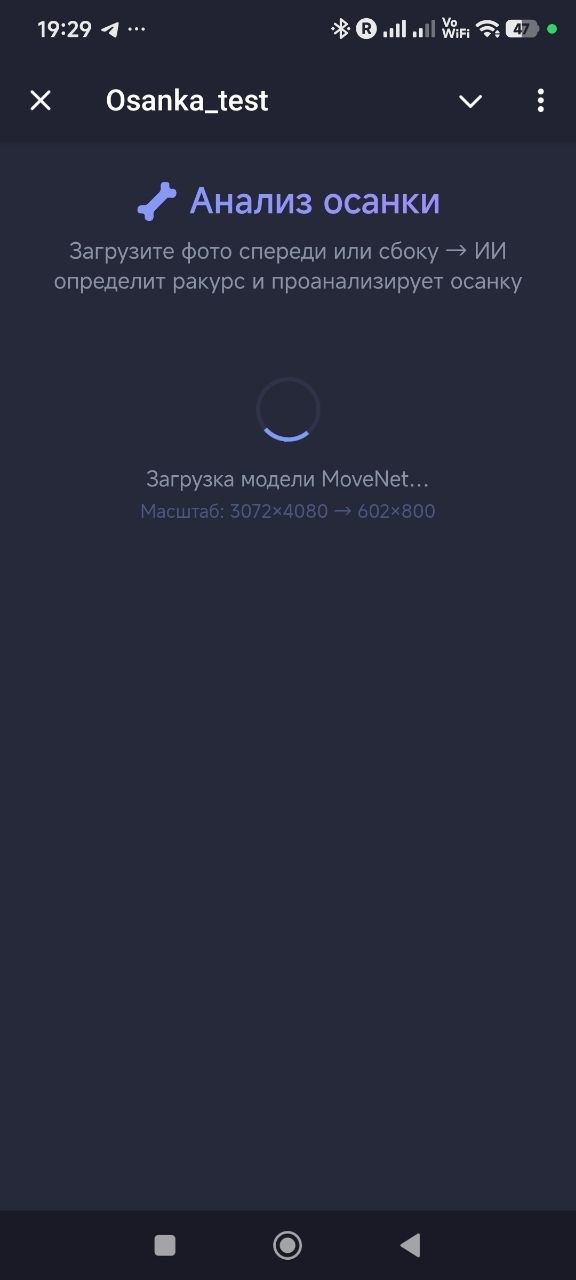
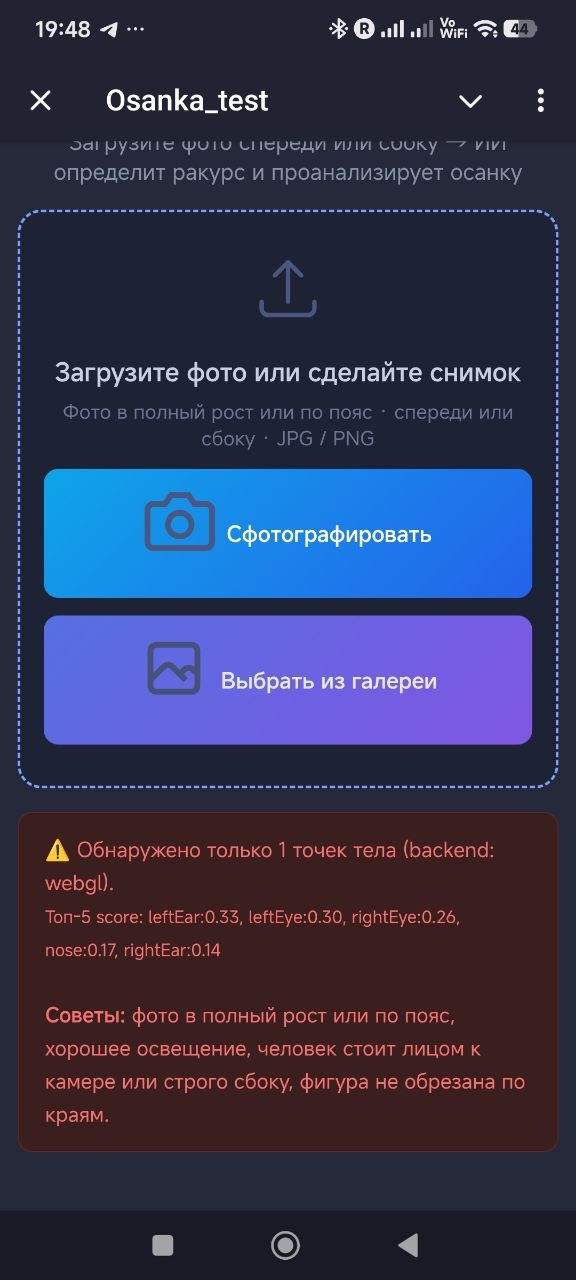
fix

diff --git a/index.html b/index.html
@@ -255,6 +255,55 @@ function moveNetToKps(keypoints) {
   });
 }
 
+// ── EXIF orientation reader (parses first 64KB of JPEG) ──────────────────────
+function readExifOrientation(file, cb) {
+  var fr = new FileReader();
+  fr.onload = function(e) {
+    try {
+      var v = new DataView(e.target.result);
+      if (v.getUint16(0, false) !== 0xFFD8) { cb(1); return; }
+      var len = v.byteLength, off = 2;
+      while (off < len) {
+        var marker = v.getUint16(off, false); off += 2;
+        if (marker === 0xFFE1) {
+          off += 2; // skip segment length
+          if (v.getUint32(off, false) !== 0x45786966) { cb(1); return; } // 'Exif'
+          var le = v.getUint16(off + 6, false) === 0x4949;
+          var ifd = off + 6 + v.getUint32(off + 10, le);
+          var entries = v.getUint16(ifd, le);
+          for (var i = 0; i < entries; i++) {
+            if (v.getUint16(ifd + 2 + i * 12, le) === 0x0112) {
+              cb(v.getUint16(ifd + 2 + i * 12 + 8, le)); return;
+            }
+          }
+          cb(1); return;
+        } else if ((marker & 0xFF00) !== 0xFF00) break;
+        else off += v.getUint16(off, false);
+      }
+    } catch(e) {}
+    cb(1);
+  };
+  fr.onerror = function() { cb(1); };
+  fr.readAsArrayBuffer(file.slice(0, 65536));
+}
+
+// Draw image onto canvas with correct EXIF orientation applied manually
+function drawWithExif(ctx, img, orientation, cw, ch) {
+  ctx.save();
+  switch (orientation) {
+    case 2: ctx.transform(-1,0,0,1,cw,0); break;
+    case 3: ctx.transform(-1,0,0,-1,cw,ch); break;
+    case 4: ctx.transform(1,0,0,-1,0,ch); break;
+    case 5: ctx.transform(0,1,1,0,0,0); break;
+    case 6: ctx.transform(0,1,-1,0,ch,0); break;  // 90° CW — most common phone portrait
+    case 7: ctx.transform(0,-1,-1,0,ch,cw); break;
+    case 8: ctx.transform(0,-1,1,0,0,cw); break;
+  }
+  var swapped = (orientation >= 5 && orientation <= 8);
+  ctx.drawImage(img, 0, 0, swapped ? ch : cw, swapped ? cw : ch);
+  ctx.restore();
+}
+
 function processFile(file) {
   if (!file.type.startsWith('image/')) { showError('Выберите файл изображения (JPG, PNG, WebP…)'); return; }
   errorEl.style.display       = 'none';
@@ -264,17 +313,38 @@ function processFile(file) {
   loadingText.textContent     = 'Загрузка модели MoveNet…';
   loadingSub.textContent      = 'Первый запуск загружает ~6 МБ';
 
-  var reader = new FileReader();
-  reader.onerror = function(){ showError('Не удалось прочитать файл изображения.'); };
-  reader.onload = function(e) {
-    sourceImg.onerror = function(){ showError('Не удалось загрузить изображение. Попробуйте JPG или PNG.'); };
-    sourceImg.onload  = startAnalysis;
-    sourceImg.src     = e.target.result;
-  };
-  reader.readAsDataURL(file);
+  readExifOrientation(file, function(orientation) {
+    var reader = new FileReader();
+    reader.onerror = function(){ showError('Не удалось прочитать файл изображения.'); };
+    reader.onload = function(e) {
+      var tmp = new Image();
+      tmp.onerror = function(){ showError('Не удалось загрузить изображение.'); };
+      tmp.onload = function() {
+        var rawW = tmp.naturalWidth  || tmp.width  || 640;
+        var rawH = tmp.naturalHeight || tmp.height || 640;
+        var swapped = (orientation >= 5 && orientation <= 8);
+        var finalW = swapped ? rawH : rawW;
+        var finalH = swapped ? rawW : rawH;
+        var MAX = 800;
+        var scale = Math.min(1, MAX / Math.max(finalW, finalH));
+        var cw = Math.round(finalW * scale);
+        var ch = Math.round(finalH * scale);
+        _poseCanvas = document.createElement('canvas');
+        _poseCanvas.width  = cw;
+        _poseCanvas.height = ch;
+        drawWithExif(_poseCanvas.getContext('2d'), tmp, orientation, cw, ch);
+        // Also update sourceImg for skeleton overlay
+        sourceImg._procW = cw; sourceImg._procH = ch;
+        sourceImg.onload = startAnalysis;
+        sourceImg.src = _poseCanvas.toDataURL('image/jpeg', 0.85);
+      };
+      tmp.src = e.target.result;
+    };
+    reader.readAsDataURL(file);
+  });
 }
 
-var _poseCanvas = null; // resized canvas passed to TF.js
+var _poseCanvas = null;
 
 function startAnalysis() {
   loadTimeout = setTimeout(function(){
@@ -282,25 +352,13 @@ function startAnalysis() {
     uploadSection.style.display = 'block';
   }, 90000);
 
-  var origW = sourceImg.naturalWidth  || sourceImg.width  || 640;
-  var origH = sourceImg.naturalHeight || sourceImg.height || 640;
-
-  // Resize to max 800px — critical for mobile: 12MP photos crash WebView's TF.js
-  // drawImage also applies browser EXIF rotation automatically
-  var MAX = 800;
-  var scale = Math.min(1, MAX / Math.max(origW, origH));
-  var cw = Math.round(origW * scale);
-  var ch = Math.round(origH * scale);
-  _poseCanvas = document.createElement('canvas');
-  _poseCanvas.width  = cw;
-  _poseCanvas.height = ch;
-  _poseCanvas.getContext('2d').drawImage(sourceImg, 0, 0, cw, ch);
-
-  loadingSub.textContent = 'Масштаб: ' + origW + '×' + origH + ' → ' + cw + '×' + ch;
+  var cw = _poseCanvas ? _poseCanvas.width  : 640;
+  var ch = _poseCanvas ? _poseCanvas.height : 640;
+  loadingSub.textContent = 'Размер: ' + cw + '×' + ch + 'px';
 
   getDetector().then(function(det) {
     loadingText.textContent = 'Анализ позы…';
-    loadingSub.textContent  = cw + '×' + ch + 'px, backend: ' + (tf.getBackend ? tf.getBackend() : '?');
+    loadingSub.textContent  = cw + '×' + ch + ', backend: ' + (tf.getBackend ? tf.getBackend() : '?');
     return det.estimatePoses(_poseCanvas);
   }).then(function(poses) {
     clearTimeout(loadTimeout);
@@ -352,8 +410,8 @@ function onPose(pose) {
   resultsEl.style.display = 'block';
 }
 
-function imgW() { return _poseCanvas ? _poseCanvas.width  : (sourceImg.naturalWidth  || 640); }
-function imgH() { return _poseCanvas ? _poseCanvas.height : (sourceImg.naturalHeight || 640); }
+function imgW() { return (_poseCanvas && _poseCanvas.width)  || sourceImg._procW || sourceImg.naturalWidth  || 640; }
+function imgH() { return (_poseCanvas && _poseCanvas.height) || sourceImg._procH || sourceImg.naturalHeight || 640; }
 
 // ── View detection ────────────────────────────────────────────────────────────
 function detectView(k) {